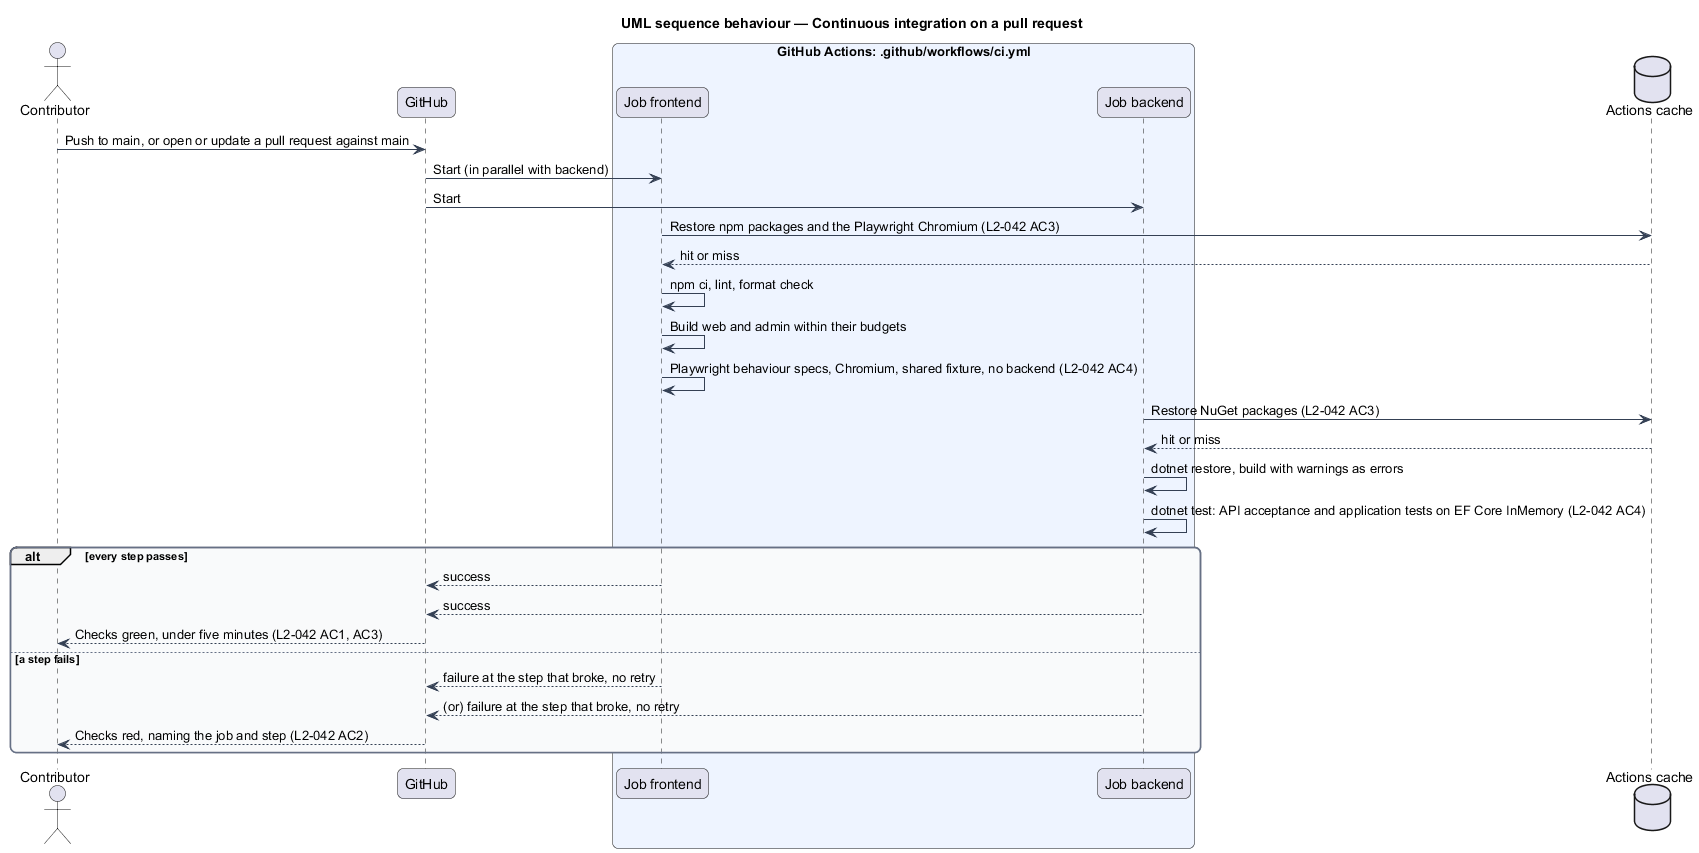
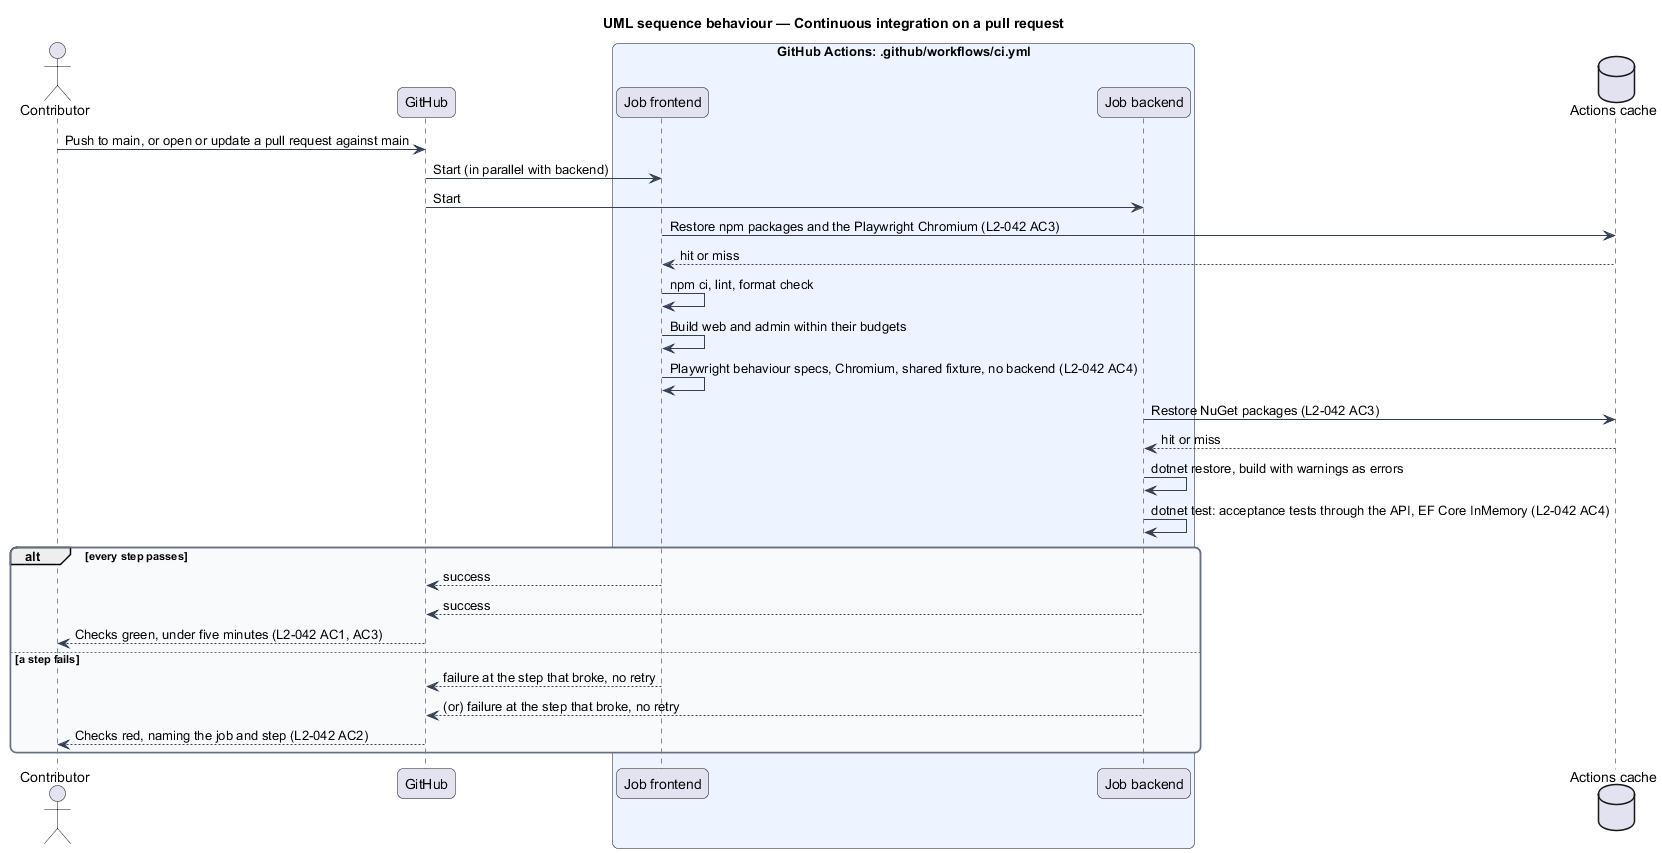
Check out each CI job sparsely and run the API acceptance tests
Records the CI decisions in ADR 0005 and documents CI in CONTRIBUTING.md.

Claude-Session: https://claude.ai/code/session_01LjZiMqsjT8jL49Vuccb2Zr

diff --git a/docs/detailed-designs/operations/deploy-and-migrate/README.md b/docs/detailed-designs/operations/deploy-and-migrate/README.md
@@ -23,10 +23,10 @@ change on its way to `main`.
 - **API startup** — `Program.cs` in `ChristianFitness.Api` does not call `Migrate` or `EnsureCreated`.
 - **Settings documentation** — [`docs/operations/settings.md`](../../../operations/settings.md) lists each setting (name, purpose, example, required or optional). A change that adds a setting edits it in the same change.
 - **Release order** — run `cf migrate`, then `cf seed`, then start the API and serve the two web apps. Any host that runs .NET 10 and reaches PostgreSQL will do; these three steps are the whole contract, and the pipeline that runs them is added with the first deployment, in its own ADR.
-- **Continuous integration** — `.github/workflows/ci.yml`, workflow `CI`, runs on every push to `main` and every pull request against it (and by hand, `workflow_dispatch`). A newer run for the same branch cancels the older one. It has read-only repository permissions and uses no secret. Two jobs run side by side on `ubuntu-latest`, each with a five-minute timeout, so a run that would break the five-minute rule fails instead:
+- **Continuous integration** — `.github/workflows/ci.yml`, workflow `CI`, runs on every push to `main` and every pull request against it (and by hand, `workflow_dispatch`). A newer run for the same branch cancels the older one. It has read-only repository permissions and uses no secret. Two jobs run side by side on `ubuntu-latest`, each with a five-minute timeout, so a run that would break the five-minute rule fails instead. Each checks out only its own folder (sparse checkout), so nothing outside it can be read:
   - **`frontend`** (working directory `frontend/`) — Node 24 with the npm cache keyed by `package-lock.json`; `npm ci`; `npm run lint`; `npm run format:check`; `npm run build` (both apps, within the `angular.json` budgets); then the Playwright Chromium, restored from the Actions cache keyed by the installed `@playwright/test` version and installed only on a miss; then `npm run e2e`, the behaviour specs only (`@sweep` specs stay off), on Chromium, against `ng serve` with the shared fixture answering every request. On a failure the Playwright report and traces are uploaded as the `playwright-report` artifact for seven days.
-  - **`backend`** (working directory `backend/`) — the .NET SDK named by `global.json`; NuGet packages restored from the Actions cache keyed by `Directory.Packages.props` and every `*.csproj`; `dotnet restore`; `dotnet build -c Release --no-restore` (warnings are errors through `Directory.Build.props`); `dotnet test -c Release --no-build`, the API acceptance tests and the application tests, on EF Core InMemory with no database.
-  - Each check is its own named step, so a failure names it (`Lint`, `Format check`, `Build`, `Behaviour specs`, `Build (warnings as errors)`, `Test`). Nothing is retried: `retries: 0` in `playwright.config.ts`, and no step re-runs. Unit tests run locally, not in CI (AGENTS.md).
+  - **`backend`** (working directory `backend/`) — the .NET SDK named by `global.json`; NuGet packages restored from the Actions cache keyed by `Directory.Packages.props` and every `*.csproj`; `dotnet restore`; `dotnet build -c Release --no-restore` (warnings are errors through `Directory.Build.props`); `dotnet test tests/ChristianFitness.Api.Tests -c Release --no-build`, the acceptance tests through the API, on EF Core InMemory with no database. The direct handler and domain tests in `ChristianFitness.Application.Tests` are compiled by the build and run locally.
+  - Each check is its own named step, so a failure names it (`Lint`, `Format check`, `Build`, `Behaviour specs`, `Build (warnings as errors)`, `Acceptance tests`). Nothing is retried: `retries: 0` in `playwright.config.ts`, and no step re-runs. Unit tests run locally, not in CI (AGENTS.md).
 
 ## Requirements
 
@@ -38,7 +38,7 @@ sentence, so the criteria are quoted.
 | L2 ID | Refines (L1) | Requirement |
 |-------|--------------|-------------|
 | `L2-041` | `L1-016` | 1. Given a new release, when the API starts, then it does not apply migrations; a documented CLI command applies them. 2. Given seed data, when the seed command runs twice, then the second run changes nothing. 3. Given a setting a deployed system needs, when it is added, then it is documented in the same change. |
-| `L2-042` | `L1-016` | 1. Given a push to `main` or a pull request against it, when CI runs, then it runs the frontend's lint, format check, build of both apps and Playwright behaviour specs on Chromium, and the backend's build with warnings as errors and `dotnet test`. 2. Given a change that breaks any of those checks, when CI runs, then the run fails at that check and names it; nothing is retried. 3. Given a change that passes every check, when CI runs, then the run is green in under five minutes, using cached npm packages, NuGet packages and the Playwright browser. 4. Given CI, when it runs, then it needs no secret and no real backend or database. |
+| `L2-042` | `L1-016` | 1. Given a push to `main` or a pull request against it, when CI runs, then it runs the frontend's lint, format check, build of both apps and Playwright behaviour specs on Chromium, and the backend's build with warnings as errors and its acceptance tests through the API (`dotnet test`). 2. Given a change that breaks any of those checks, when CI runs, then the run fails at that check and names it; nothing is retried. 3. Given a change that passes every check, when CI runs, then the run is green in under five minutes, using cached npm packages, NuGet packages and the Playwright browser. 4. Given CI, when it runs, then it needs no secret and no real backend or database. |
 
 ## Diagrams
 

diff --git a/docs/adr/0005-github-actions-ci.md b/docs/adr/0005-github-actions-ci.md
@@ -1,0 +1,48 @@
+# 0005. GitHub Actions CI: two sparse jobs, five-minute timeouts, no retries
+
+## Status
+
+Accepted, 22 November 2026 (slice 1.3).
+
+## Context
+
+`AGENTS.md` asks for CI on GitHub Actions that is always green, under five minutes, never retried,
+and that runs lint, build and one critical acceptance path per feature while unit tests run
+locally. L2-042 states what it checks. The repository holds two stacks, `frontend/` (Angular,
+Playwright) and `backend/` (.NET 10), which share no build step.
+
+## Decision
+
+- **One workflow,** `.github/workflows/ci.yml`, on every push to `main`, every pull request against
+  it and by hand (`workflow_dispatch`). A newer run for the same ref cancels the older one. The
+  token is read-only (`contents: read`) and no secret is used.
+- **Two jobs side by side,** `frontend` and `backend`, on `ubuntu-latest`. Each checks out only its
+  own folder (sparse checkout), so a spec or a test that reads a file outside its project fails in
+  CI as `AGENTS.md` warns.
+- **A five-minute timeout on each job.** A run that would break the five-minute rule fails and is
+  fixed, never waited out. Measured on this slice: about 1 min 30 s with cold caches and under
+  45 s with warm ones.
+- **Caches:** npm through `actions/setup-node` (keyed by `package-lock.json`); the Playwright
+  headless Chromium in `~/.cache/ms-playwright`, keyed by the installed `@playwright/test`
+  version and downloaded only on a miss (`--only-shell`, the only browser the specs use; the
+  runner image already has its system libraries); NuGet in `$NUGET_PACKAGES`, keyed by
+  `Directory.Packages.props` and every `*.csproj`.
+- **Behaviour specs run against `ng serve`,** as `playwright.config.ts` already says, rather than a
+  second server for the production build: both apps compile in seconds and it keeps one way to run
+  the specs, locally and in CI.
+- **The backend runs only its acceptance tests through the API** (`ChristianFitness.Api.Tests`);
+  `ChristianFitness.Application.Tests` is compiled with warnings as errors but run locally, as
+  unit tests are.
+- **No retries anywhere:** `retries: 0` in `playwright.config.ts` and no re-run step. When the
+  specs fail, their traces are kept as the `playwright-report` artifact for seven days.
+- **Actions are pinned to their major version** (`actions/checkout@v5`, `actions/setup-node@v5`,
+  `actions/setup-dotnet@v5`, `actions/cache@v4`, `actions/upload-artifact@v4`). They are GitHub's
+  own; a third-party action, if one is ever added, is pinned to a commit SHA.
+
+## Consequences
+
+- A new check joins the job of its stack as its own named step, so a failure names it.
+- A slice that makes CI slower than five minutes splits a job (for example the specs into their own
+  job) rather than raising the timeout.
+- Branch protection (requiring `Frontend` and `Backend` before merging) is set in the repository's
+  settings by its owner; the workflow does not need it to run.

diff --git a/CONTRIBUTING.md b/CONTRIBUTING.md
@@ -46,14 +46,38 @@ Documentation, mocks and test-only changes are exempt from this flow.
 3. Make sure lint, build and tests pass locally:
 
    ```sh
-   cd frontend && npm run lint && npm run format:check && npm run build && npm run e2e
+   cd frontend && npm ci && npm run lint && npm run format:check && npm run build && npm run e2e
    cd backend && dotnet build && dotnet test
    ```
+
+   `dotnet test` here runs every backend test, the direct handler and domain tests included;
+   CI runs only the acceptance tests through the API (see below).
 
 4. Write clear commit messages in the imperative mood (`Add event registration endpoint`).
 5. Open the pull request against `main`, link the related issue and describe what changed
    and how you verified it.
 6. CI must be green. A maintainer reviews every pull request before merging.
+
+## Continuous integration
+
+[`.github/workflows/ci.yml`](.github/workflows/ci.yml) runs on every push to `main` and every
+pull request against it ([ADR 0005](docs/adr/0005-github-actions-ci.md), L2-042). Two jobs run
+side by side, each on a sparse checkout of its own folder:
+
+| Job        | Steps, in order                                                                                                            |
+| ---------- | -------------------------------------------------------------------------------------------------------------------------- |
+| `Frontend` | `npm ci`, `Lint`, `Format check`, `Build` (both apps, within their budgets), the Playwright Chromium, `Behaviour specs`   |
+| `Backend`  | `Restore`, `Build (warnings as errors)`, `Acceptance tests` (`dotnet test tests/ChristianFitness.Api.Tests`)               |
+
+- A failure stops its job at the step that broke, and the pull request names it. When the
+  behaviour specs fail, their traces are attached to the run as `playwright-report`.
+- Nothing is retried. A flaky or slow check is fixed or removed, never re-run until it passes.
+- Each job has a five-minute timeout; a whole run takes under a minute with warm caches. npm, the
+  Playwright browser and NuGet packages are cached.
+- CI needs no secret, no backend and no database: the specs answer every request through the
+  shared fixture, and the backend tests run on EF Core InMemory.
+- Only behaviour specs run. The `@sweep` specs (visual, responsive, accessibility, heap) and the
+  unit tests run locally, when a person asks.
 
 ## Coding standards
 

diff --git a/docs/specs/L2.md b/docs/specs/L2.md
@@ -442,11 +442,11 @@ Editing opens a dialog or a screen; there are no inline forms.
 
 Every push to `main` and every pull request against it shall run the frontend's lint, format
 check, build of both apps within their budgets and Playwright behaviour specs, and the backend's
-build with warnings as errors and its tests, in one GitHub Actions run of under five minutes with
+build with warnings as errors and its acceptance tests through the API, in one GitHub Actions run of under five minutes with
 no retries.
 
 **Acceptance Criteria:**
-1. Given a push to `main` or a pull request against it, when CI runs, then it runs the frontend's lint, format check, build of both apps and Playwright behaviour specs on Chromium, and the backend's build with warnings as errors and `dotnet test`.
+1. Given a push to `main` or a pull request against it, when CI runs, then it runs the frontend's lint, format check, build of both apps and Playwright behaviour specs on Chromium, and the backend's build with warnings as errors and its acceptance tests through the API (`dotnet test`).
 2. Given a change that breaks any of those checks (a lint error, a format difference, a build or budget error, a failing spec or test), when CI runs, then the run fails at that check and names it; nothing is retried.
 3. Given a change that passes every check, when CI runs, then the run is green in under five minutes, using cached npm packages, NuGet packages and the Playwright browser.
 4. Given CI, when it runs, then it needs no secret and no real backend or database: the specs answer every request through the shared fixture and the backend tests use EF Core InMemory.

diff --git a/docs/adr/README.md b/docs/adr/README.md
@@ -9,3 +9,4 @@ from the platform's best practice needs one (AGENTS.md, "Prefer best practice").
 | [0002](0002-eslint-boundaries-for-the-dependency-direction.md) | eslint-plugin-boundaries enforces the dependency direction                        | Accepted |
 | [0003](0003-video-tooling.md)                                  | Narrated films made with local tools: Kokoro, a deck seeked frame by frame, ffmpeg | Accepted |
 | [0004](0004-postgresql-and-the-backend-packages.md)            | PostgreSQL, and the packages of the backend skeleton                              | Accepted |
+| [0005](0005-github-actions-ci.md)                              | GitHub Actions CI: two sparse jobs, five-minute timeouts, no retries              | Accepted |
